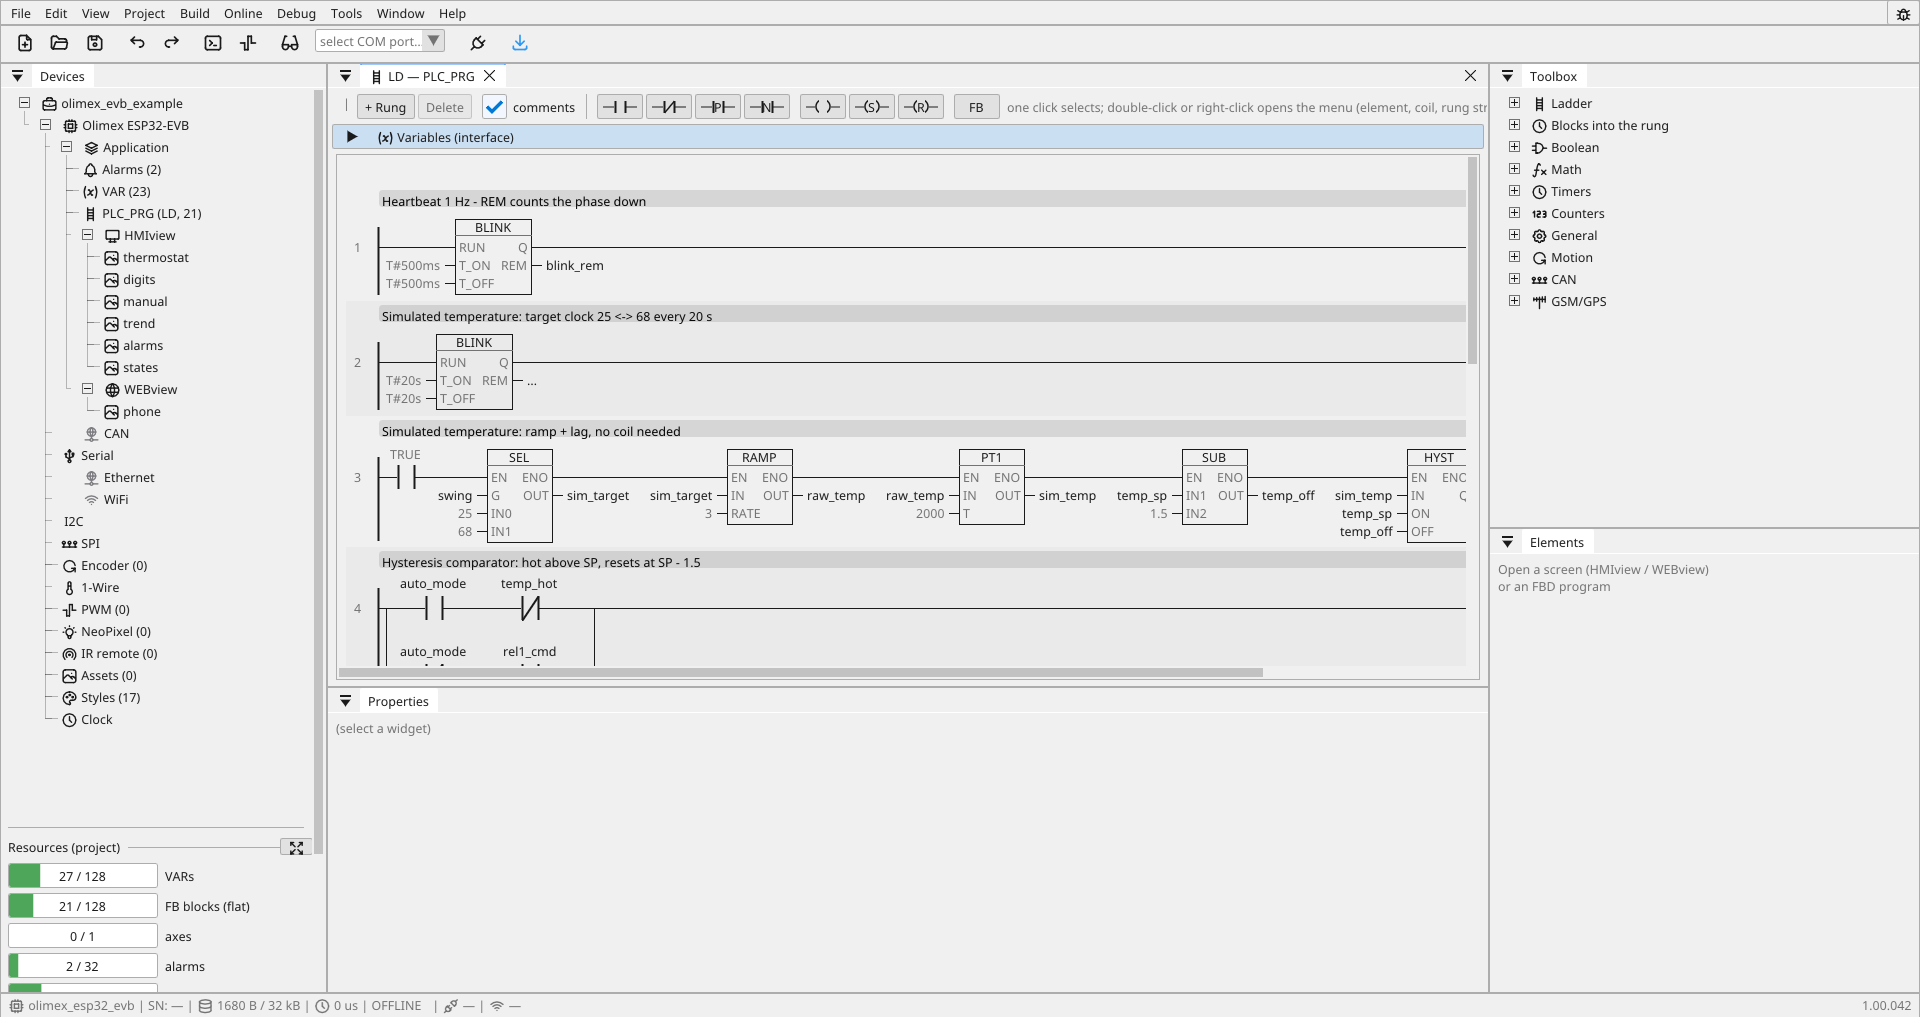
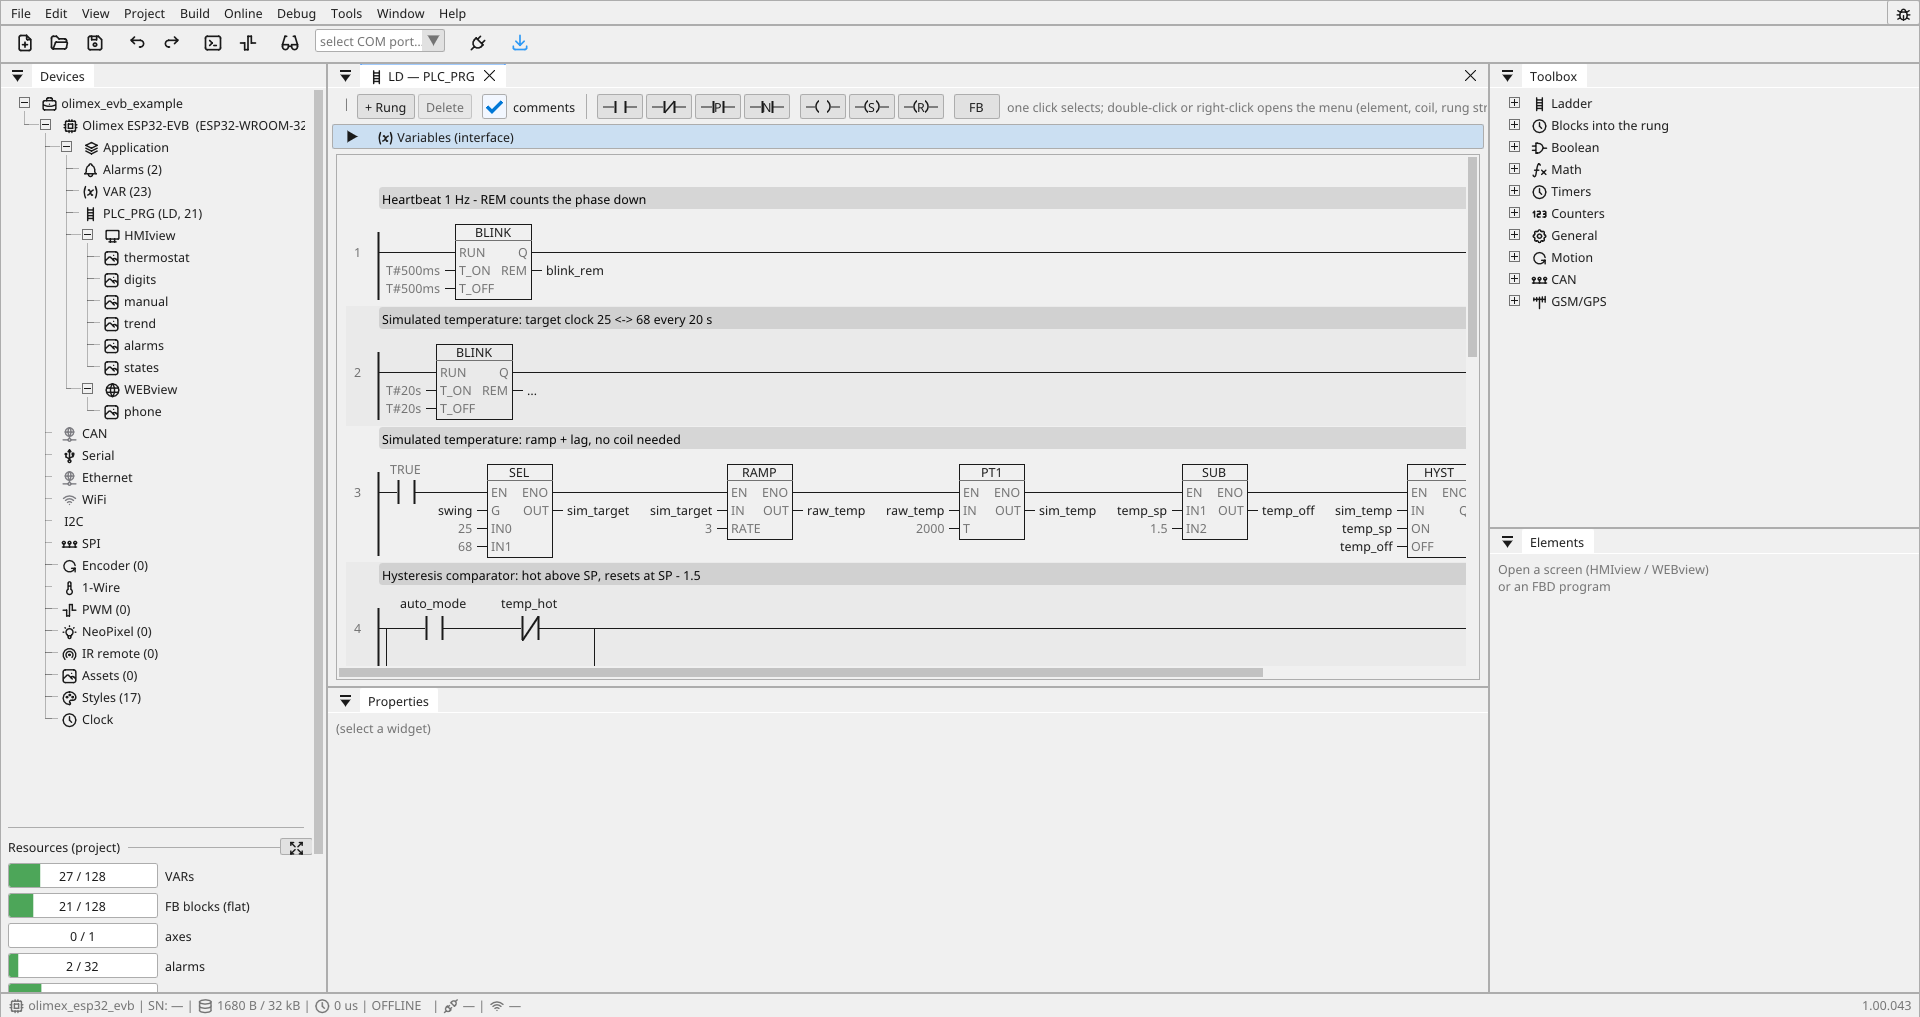
1.00.043: the simulation runs the panel's program with simulated drives; every line of a conducting block is green; screenshots regenerated (trees with the module name, connectors to the boxes)

diff --git a/docs/ladder.md b/docs/ladder.md
@@ -95,9 +95,13 @@ it from either end:
   symbol (edited right in the element popup; the *comments* checkbox
   hides them when the rungs should pack tighter). Descriptions travel
   with the project.
-- In **test mode** the rungs show the live power flow: conducting
-  wires, symbols and block frames turn green — the frame as thick as
-  the wires, so the active path reads at a glance. Clicking a contact
+- **Test mode** runs the same program the panel runs, with every drive
+  simulated (Enable brings it to operation, the velocity follows the
+  setpoint with your ramps), so a motion rung behaves at the desk the
+  way it behaves on the equipment. In test mode the rungs show the live power flow: conducting
+  wires, symbols and block frames turn green — every line of a block
+  that conducts, its pin stubs and the line under its name included;
+  only the text keeps its colour, so the active path reads at a glance. Clicking a contact
   toggles its variable (simulation only; connected to a board everything
   is read-only).
 

diff --git a/docs/changelog.md b/docs/changelog.md
@@ -30,6 +30,13 @@ capabilities, the first one practically never moves.
   Text/Table switch works with Modbus variables, also over edited text.
   The register maps of the shipped Modbus meters create their
   variables.
+- **The simulation runs what the panel runs.** Test mode executes the
+  same program the download would carry — ladder and block diagrams
+  rendered to structured text, your own function blocks included — and
+  every axis of the project gets a simulated drive: Enable brings it to
+  operation, the velocity follows the setpoint with the ramps you set,
+  the gauge and the trend move. A timer's `ET` or a blinker's `REM`
+  shows its running value in the simulation as it does online.
 - **Smaller things.** The new-project list names the processor module
   beside every board; the Toolbox groups open with +/-; the ladder
   toolbar symbols sit centred; the Serial, I2C and SPI nodes add a
